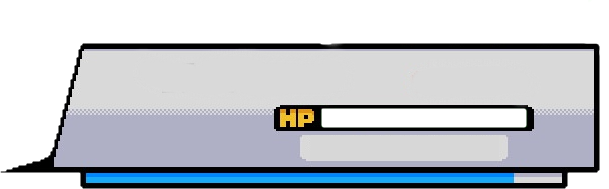
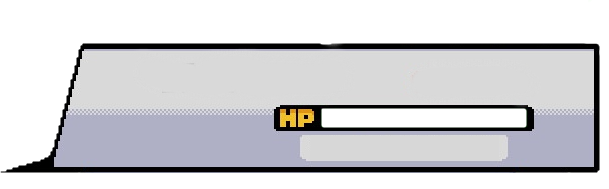
UI updates and added proper collision mask

Changed region(s): [[0.1248, 0.8995, 0.936, 1.0]]

diff --git a/pages/main/worlds/collision.js b/pages/main/worlds/collision.js
@@ -1,38 +1,38 @@
-import { gridHeight, gridWidth } from "../scripts/draw.js";
+import { fst, grs, nan, rck, urb, wtr, sea, mtn } from "../../../constants.js";
 
 const collisionMask = [
-    [-1, 1, 1, 1, -1, -1, -1, -1, -1, -1, -1, -1, -1, -1, -1, -1, -1, -1, -1, -1, -1, -1, -1, -1, -1, -1, -1, -1, -1, -1, -1, -1],
-    [-1, 1, 1, 1, -1, -1, -1, -1, -1, 0, 0, 0, 0, 0, 0, 0, 0, 0, -1, 0, 0, 0, -1, 0, 0, 0, 0, 0, 0, -1, 0, -1],
-    [-1, -1, 1, 1, -1, -1, -1, -1, -1, -1, 0, 0, 0, 0, 0, 0, 0, 0, 0, 0, 0, 0, 0, 0, 0, 0, 0, 0, 0, 0, 0, -1],
-    [-1, 1, 1, 1, -1, -1, -1, -1, -1, 0, 0, 0, 0, 0, 0, 0, 0, 0, 0, 0, 0, 0, 0, 0, 0, 0, 0, 0, 0, 0, 0, -1],
-    [-1, 1, 1, 1, -1, -1, -1, -1, -1, 0, 0, 0, 0, 0, 0, 0, 0, 0, 0, 0, 0, 0, 0, 0, 0, 0, 0, 0, 0, 0, 0, -1],
-    [-1, 1, 1, -1, -1, -1, -1, -1, -1, 0, 0, 0, -1, -1, 0, 0, -1, -1, -1, 0, 0, 0, 0, 0, 0, 0, 0, 0, 0, 0, 0, -1],
-    [-1, 1, 1, -1, -1, 0, -1, -1, 0, 0, 0,-1, -1, -1, 0, 0, -1, -1, -1, 0, 0, 0, 0, 0, 0, 0, 0, 0, 0, 0, 0, -1],
-    [-1, -1, 1, 1, -1, -1, -1, 0, 0, 0, 0, -1, -1, -1, 0, 0, 0, 0, 0, 0, 0, 0, -1, -1, 0, 0, 0, 0, -1, -1, 0, -1],
-    [-1, 1, 1, 1, -1, -1, -1, 0, 0, 0, 0, -1, 0, 0, 0, 0, 0, -1, 0, 0, 0, 0, -1, -1, 0, 0, 0, 0, 0, 0, 0, -1],
-    [-1, 1, 1, 1, -1, -1, 0, 0, 0, 0, 0, 0, -1, 0, 0, 0, 0, 0, -1, 0, -1, 0, -1, -1, 0, 0, 0, 0, -1, -1, 0, -1],
-    [-1, -1, 1, 1, 1, -1, -1, 0, 0, 0, 0, -1, 0, 0, 0, 0, 0, -1, -1, -1, 0, -1, 0, 0, -1, 0, 0, -1, -1, 0, 0, -1],
-    [-1, 1, 1, 1, 1, -1, -1, 0, 0, 0, 0, 0, -1, 0, 0, 0, -1, -1, 1, 1, 0, -1, -1, 0, 0, 0, 0, 0, 0, -1, -1, -1],
-    [-1, -1, 1, 0, 0, -1, -1, -1, 0, 0, 0, -1, 0, 0, 0, 0, -1, 1, 1, 1, -1, -1, -1, -1, 0, 0, 0, 0, 0, -1, -1, -1],
-    [-1, 1, 1, 1, 1, 1, -1, -1, -1, -1, 0, -1, 0, 0, 0, 0, -1, 1, 1, 1, -1, -1, -1, -1, -1, 0, 0, 0, 0, -1, -1, -1],
-    [-1, 1, 1, 1, 1, 1, -1, 0, 0, 0, 0, 0, 0, 0, 0, 0, 0, 0, 1, 1, -1, -1, -1, -1, 0, 0, 0, -1, 0, -1, -1, -1],
-    [-1, 1, 1, 1, 1, 1, -1, 0, 0, 0, -1, 0, 0, 0, 0, 0, 0, 0, 1, 1, -1, -1, 0, 0, 0, 0, 0, 0, -1, 0, 0, -1],
-    [-1, 1, 1, 1, 1, 1, -1, 0, 0, 0, -1, 0, 0, 0, 0, -1, 0, 0, -1, 0, -1, 0, 0, 0, 0, 0, 0, -1, 0, 0, 0, -1],
-    [-1, 1, -1, 1, 1, 1, 1, -1, 0, 0, 0, 0, 0, 0, -1, 0, 0, 0, 0, 0, 0, 0, 0, 0, 0, 0, -1, 0, 0, 0, -1, -1],
-    [-1, 1, -1, 1, 1, 1, 1, -1, 0, 0, 0, 0, 0, 0, 0, 0, 0, 0, 0, 0, 0, 0, 0, 0, 0, 0, 0, -1, -1, -1, 0, -1],
-    [-1, -1, 1, 1, 1, -1, 1, -1, 0, 0, 0, 0, 0, 0, 0, 0, 0, 0, 0, 0, 0, 0, 0, 0, 0, 0, 0, 0, 0, 0, 0, -1],
-    [-1, -1, 1, 1, 1, 1, 1, 1, -1, 0, 0, 0, 0, -1, 0, 0, 0, 0, 0, 0, 0, 0, 0, 0, 0, 0, 0, -1, 0, 0, -1, -1],
-    [-1, 1, 1, 1, 1, 1, 1, 1, 0, 0, 0, 1, 0, 0, 0, 0, 0, 0, 0, 0, 0, 0, 0, 0, 0, 0, -1, 0, 0, -1, -1, -1],
-    [-1, 1, 1, 1, 1, 1, 1, 1, 0, 0, 0, 1, 0, 0, 0, 0, 0, 0, 0, 0, 0, 0, 0, 0, 0, 0, -1, 0, 0, 0, -1, -1],
-    [-1, 1, 1, 1, 1, 1, 1, 1, 0, 0, 0, 1, 0, 0, 0, 0, 0, 0, 0, 0, 0, 0, 0, -1, 0, 0, 0, -1, -1, -1, 0, -1],
-    [-1, -1, 1, 1, 1, 1, 1, 1, 0, -1, -1, 1, 0, 0, 0, 0, 0, 0, 0, 0, 0, 0, 0, -1, 0, 0, 0, 0, 0, -1, 0, -1],
-    [-1, -1, 1, 1, 1, 1, 1, 1, 0, -1, -1, 1, 1, 0, 0, 0, 0, 0, 0, 0, 0, 0, 0, -1, -1, -1, -1, -1, -1, -1, -1, -1],
-    [-1, -1, 1, 1, 1, 1, 1, 1, 0, -1, -1, -1, 1, 1, 1, 1, 1, 1, 1, 1, 1, 1, 1, -1, -1, 0, 0, -1, -1, -1, 0, -1],
-    [-1, 0, -1, 1, 1, -1, -1, -1, -1, -1, -1, -1, -1, -1, 1, 1, 1, 1, 1, 1, 1, 1, 1, -1, -1, 0, -1, 0, -1, -1, -1, -1],
-    [-1, 0, -1, 1, 1, -1, -1, 0, -1, -1, -1, -1, -1, -1, -1, 1, 1, 1, 1, 1, 1, 1, 1, 1, 1, 1, -1, 0, -1, -1, 0, -1],
-    [-1, 0, -1, 1, 1, -1, -1, -1, -1, -1, -1, -1, -1, -1, 1, 1, 1, 1, 1, 1, 1, 1, 1, -1, 1, 1, -1, 1, 0, 0, 0, -1],
-    [-1, 1, -1, 1, 1, 1, 1, 1, 1, 1, 1, 1, 1, 1, 1, 1, 1, 1, 1, 1, 1, 1, 1, 1, 1, 1, 1, 1, 1, 1, 1, -1],
-    [-1, -1, -1, -1, -1, -1, -1, -1, -1, -1, -1, -1, -1, -1, -1, -1, -1, -1, -1, -1, -1, -1, -1, -1, -1, -1, -1, -1, -1, -1, -1, -1]
+    [nan, nan, nan, nan, nan, nan, nan, nan, nan, nan, nan, nan, nan, nan, nan, nan, nan, nan, nan, nan, nan, nan, nan, nan, nan, nan, nan, nan, nan, nan, nan, nan],
+    [nan, wtr, wtr, wtr, nan, nan, nan, nan, nan, nan, fst, fst, fst, fst, fst, fst, fst, fst, fst, fst, fst, fst, fst, fst, fst, fst, fst, fst, fst, fst, fst, nan],
+    [nan, nan, wtr, wtr, nan, nan, nan, nan, nan, nan, grs, grs, grs, grs, grs, grs, grs, grs, grs, grs, grs, grs, grs, grs, grs, grs, grs, grs, grs, grs, grs, nan],
+    [nan, wtr, wtr, wtr, nan, nan, nan, nan, nan, nan, grs, grs, grs, grs, grs, grs, grs, grs, grs, grs, grs, grs, grs, grs, grs, grs, grs, grs, grs, grs, grs, nan],
+    [nan, wtr, wtr, wtr, nan, nan, nan, nan, nan, nan, grs, grs, nan, nan, nan, nan, grs, grs, grs, grs, grs, grs, grs, grs, grs, grs, grs, grs, grs, grs, grs, nan],
+    [nan, wtr, wtr, wtr, nan, nan, fst, nan, nan, grs, grs, grs, nan, nan, nan, nan, fst, fst, fst, fst, fst, fst, fst, fst, fst, fst, fst, fst, fst, fst, fst, nan],
+    [nan, wtr, wtr, wtr, nan, nan, fst, fst, grs, grs, grs, grs, nan, nan, nan, nan, nan, nan, nan, nan, nan, nan, nan, nan, nan, nan, nan, fst, fst, fst, fst, nan],
+    [nan, nan, wtr, wtr, nan, nan, fst, fst, grs, grs, grs, grs, nan, nan, nan, nan, nan, nan, nan, nan, nan, nan, nan, nan, nan, nan, nan, fst, fst, fst, fst, nan],
+    [nan, wtr, wtr, wtr, nan, nan, fst, fst, grs, grs, grs, grs, fst, nan, nan, fst, nan, nan, nan, nan, nan, nan, nan, nan, nan, nan, nan, fst, fst, fst, fst, nan],
+    [nan, wtr, wtr, wtr, nan, nan, fst, fst, grs, grs, grs, grs, fst, fst, fst, nan, nan, nan, nan, nan, nan, nan, nan, nan, nan, nan, nan, fst, fst, fst, fst, nan],
+    [nan, nan, wtr, wtr, nan, nan, fst, fst, grs, grs, grs, grs, fst, fst, fst, nan, nan, nan, nan, nan, nan, nan, nan, nan, nan, nan, nan, fst, fst, fst, fst, nan],
+    [nan, wtr, wtr, wtr, nan, nan, nan, fst, fst, fst, fst, fst, fst, nan, nan, nan, nan, nan, nan, nan, nan, nan, nan, nan, nan, nan, nan, fst, nan, nan, nan, nan],
+    [nan, wtr, wtr, wtr, nan, nan, nan, fst, fst, fst, fst, fst, fst, nan, nan, nan, wtr, wtr, nan, nan, nan, nan, nan, nan, nan, nan, nan, fst, nan, nan, nan, nan],
+    [nan, wtr, wtr, wtr, wtr, nan, nan, fst, fst, fst, fst, fst, fst, nan, nan, wtr, wtr, wtr, nan, nan, nan, nan, wtr, wtr, nan, nan, nan, fst, nan, nan, nan, nan],
+    [nan, wtr, wtr, wtr, wtr, nan, nan, nan, fst, fst, fst, fst, nan, nan, wtr, wtr, wtr, wtr, nan, nan, nan, nan, wtr, wtr, nan, nan, fst, fst, nan, nan, nan, nan],
+    [nan, nan, wtr, wtr, wtr, nan, nan, nan, fst, fst, fst, nan, nan, nan, wtr, wtr, wtr, wtr, wtr, wtr, wtr, wtr, wtr, nan, nan, nan, fst, fst, fst, nan, nan, nan],
+    [nan, nan, nan, wtr, wtr, wtr, nan, nan, urb, urb, urb, nan, nan, nan, wtr, wtr, wtr, wtr, wtr, wtr, wtr, wtr, wtr, nan, nan, fst, fst, fst, fst, nan, nan, nan],
+    [nan, nan, nan, wtr, wtr, wtr, nan, nan, urb, urb, urb, nan, nan, wtr, wtr, wtr, wtr, wtr, wtr, wtr, wtr, wtr, wtr, nan, nan, fst, fst, fst, fst, nan, nan, nan],
+    [nan, nan, wtr, wtr, wtr, wtr, wtr, wtr, urb, urb, urb, wtr, wtr, wtr, wtr, wtr, wtr, wtr, wtr, wtr, wtr, wtr, wtr, nan, nan, fst, fst, fst, fst, fst, fst, nan],
+    [nan, nan, wtr, wtr, wtr, wtr, wtr, wtr, urb, urb, urb, wtr, wtr, wtr, wtr, wtr, wtr, wtr, wtr, wtr, wtr, rck, rck, nan, nan, fst, fst, fst, fst, fst, fst, nan],
+    [nan, mtn, mtn, mtn, nan, nan, nan, wtr, urb, urb, urb, wtr, wtr, wtr, wtr, wtr, wtr, wtr, wtr, wtr, rck, rck, rck, nan, nan, fst, fst, fst, fst, fst, fst, nan],
+    [nan, mtn, mtn, mtn, mtn, mtn, nan, wtr, urb, urb, urb, wtr, wtr, wtr, wtr, wtr, wtr, wtr, wtr, wtr, rck, rck, rck, nan, nan, fst, fst, nan, nan, nan, nan, nan],
+    [nan, mtn, mtn, mtn, nan, nan, nan, wtr, urb, urb, urb, wtr, wtr, sea, sea, sea, sea, sea, sea, wtr, rck, rck, rck, nan, nan, fst, fst, nan, nan, nan, nan, nan],
+    [nan, nan, mtn, mtn, nan, nan, nan, wtr, urb, urb, urb, wtr, wtr, sea, sea, sea, sea, sea, sea, wtr, rck, rck, rck, nan, nan, fst, fst, nan, nan, nan, nan, nan],
+    [nan, nan, wtr, wtr, wtr, wtr, nan, nan, nan, nan, nan, nan, nan, sea, sea, sea, sea, sea, sea, wtr, rck, rck, rck, nan, urb, fst, fst, nan, nan, nan, nan, nan],
+    [nan, nan, wtr, wtr, wtr, wtr, nan, nan, nan, nan, nan, nan, nan, nan, nan, sea, sea, sea, sea, wtr, rck, rck, rck, urb, urb, fst, fst, nan, nan, nan, nan, nan],
+    [nan, nan, nan, wtr, wtr, wtr, nan, nan, nan, nan, nan, nan, nan, nan, sea, sea, sea, sea, sea, wtr, wtr, rck, rck, urb, nan, fst, fst, fst, nan, nan, fst, nan],
+    [nan, nan, nan, wtr, wtr, wtr, nan, nan, nan, nan, nan, nan, nan, nan, sea, sea, sea, sea, sea, sea, wtr, wtr, wtr, nan, nan, fst, fst, fst, nan, nan, fst, nan],
+    [nan, nan, nan, wtr, wtr, wtr, nan, nan, nan, nan, nan, nan, nan, nan, sea, sea, sea, sea, sea, sea, wtr, wtr, wtr, nan, nan, fst, fst, fst, nan, nan, fst, nan],
+    [nan, nan, nan, wtr, wtr, wtr, nan, nan, nan, nan, nan, nan, nan, nan, sea, sea, sea, sea, sea, sea, wtr, wtr, wtr, nan, nan, fst, fst, fst, nan, nan, fst, nan],
+    [nan, nan, nan, wtr, wtr, wtr, nan, nan, nan, nan, nan, nan, nan, nan, sea, sea, sea, sea, sea, sea, wtr, wtr, wtr, nan, nan, fst, fst, fst, nan, nan, fst, nan],
+    [nan, nan, nan, nan, nan, nan, nan, nan, nan, nan, nan, nan, nan, nan, nan, nan, nan, nan, nan, nan, nan, nan, nan, nan, nan, nan, nan, nan, nan, nan, nan, nan],
 ]
 
 export function maskIndex(x, y) {

diff --git a/pages/main/world_loop.js b/pages/main/world_loop.js
@@ -1,6 +1,6 @@
 import { playMainMusic, playMoveSound } from "../../music.js";
 import { getRandomInt, loadPage, loadPokemon, onWindowResize } from "../../utilities.js";
-import { battleBackground, battlePage, battlePokemon, battle, starterMusic, myPokemonKey, starterPage, worldIndexKey } from "../../constants.js";
+import { battlePage, battlePokemon, battle, starterMusic, myPokemonKey, starterPage, worldIndexKey, terrainIndexes, worldRequests } from "../../constants.js";
 
 import { canMove, maskIndex } from "./worlds/collision.js";
 import { clearCatch, setUpPokemonSelect, setUpCatch, generateRandomTrainer } from "./scripts/controls.js";
@@ -15,28 +15,31 @@ const loading = document.getElementById("loading")
 
 body.style.display = "none"
 
-const grassLandPokemon = []
-const watersEdgePokemon = []
-
-async function loadPokemonFromHabitat(url, collection) {
+const terrainBasedPokemon = []
+async function loadPokemonFromHabitat(url) {
     const response = await fetch(url)
     if (!response.ok)
         return
+
+    const collection = []
 
     const json = await response.json()
     const allPokemon = json["pokemon_species"]
 
     for(let i = 0; i < allPokemon.length; i++)
         collection.push(allPokemon[i].name)
+
+    return collection
 }
 
 async function generateRandomPokemon(x, y) {
     const index = maskIndex(x, y)
+    const terrainPokemon = terrainBasedPokemon[maskIndex(x, y)]
 
     if (index > 0)
-        await setUpCatch(await loadPokemon(grassLandPokemon[getRandomInt(0, grassLandPokemon.length)]))
+        await setUpCatch(await loadPokemon(terrainPokemon[getRandomInt(0, terrainPokemon.length)]))
     else
-        await setUpCatch(await loadPokemon(watersEdgePokemon[getRandomInt(0, watersEdgePokemon.length)]))
+        await setUpCatch(await loadPokemon(terrainPokemon[getRandomInt(0, terrainPokemon.length)]))
 }
 
 async function generateRandomOpponent(x, y) {
@@ -78,8 +81,8 @@ async function setup() {
 
     await setUpPokemonSelect()
 
-    await loadPokemonFromHabitat("https://pokeapi.co/api/v2/pokemon-habitat/grassland/", grassLandPokemon)
-    await loadPokemonFromHabitat("https://pokeapi.co/api/v2/pokemon-habitat/waters-edge/", watersEdgePokemon)
+    for(let i = 0; i < terrainIndexes.length; i++)
+        terrainBasedPokemon.push(await loadPokemonFromHabitat(worldRequests[i]))
 
     body.style.display = "block"
     loading.style.display = "none"
@@ -127,6 +130,7 @@ async function gameLoop(x, y, spriteIndex, worldIndex) {
         const action = actions.shift()
 
         standby = true
+        let move = false
         switch (action)
         {
             case 0:
@@ -135,6 +139,8 @@ async function gameLoop(x, y, spriteIndex, worldIndex) {
                     x--
                     spriteIndex = 1
                     worldIndex = calculateWorldIndex(x, y)
+
+                    move = true
                 }
                 break
             case 1:
@@ -143,6 +149,8 @@ async function gameLoop(x, y, spriteIndex, worldIndex) {
                     x++
                     spriteIndex = 2
                     worldIndex = calculateWorldIndex(x, y)
+
+                    move = true
                 }
                 break
             case 2:
@@ -151,6 +159,8 @@ async function gameLoop(x, y, spriteIndex, worldIndex) {
                     y--
                     spriteIndex = 3
                     worldIndex = calculateWorldIndex(x, y)
+
+                    move = true
                 }
                 break
             case 3:
@@ -159,11 +169,12 @@ async function gameLoop(x, y, spriteIndex, worldIndex) {
                     y++
                     spriteIndex = 0
                     worldIndex = calculateWorldIndex(x, y)
+
+                    move = true
                 }
                 break
             default:
                 localStorage.setItem(battle, JSON.stringify({
-                    [battleBackground] : maskIndex(x, y),
                     [battlePokemon]: action
                 }))
 
@@ -176,10 +187,13 @@ async function gameLoop(x, y, spriteIndex, worldIndex) {
                 break
         }
 
-        await playMoveSound()
-        await draw(spriteIndex, x, y)
+        if(move)
+        {
+            await playMoveSound()
+            await draw(spriteIndex, x, y)
 
-        await generateRandomOpponent(x, y)
+            await generateRandomOpponent(x, y)
+        }
 
         standby = false
     }

diff --git a/pages/battle/battle.js b/pages/battle/battle.js
@@ -1,9 +1,9 @@
 import { playMainMusic } from "../../music.js";
 import { getRandomInt, loadPage, loadPokemonList, onWindowResize } from "../../utilities.js";
-import { battlePokemon, battle, myPokemonKey, selectedPokemon, allPokemon, victoryMusic, mainPage, battleMusic, battleBackground, starterPage, attackTypeTable } from "../../constants.js";
+import { battlePokemon, battle, myPokemonKey, selectedPokemon, allPokemon, victoryMusic, mainPage, battleMusic, starterPage, attackTypeTable } from "../../constants.js";
 
 import { manageSelection, pushLog, initAttacks, initSelection, toggleAttacks, disableSelection, pokeBallsInit, managePokeBalls } from "./scripts/controls.js";
-import { clearRect,  drawPlayer1Pokemon, drawPlayer2Pokemon, drawPokemonHealth, drawPokemonUI, loadPokemonImages, loadPokemonUI, setBackground, waitLoadFonts } from "./scripts/draw.js";
+import { clearRect,  drawPlayer1Pokemon, drawPlayer2Pokemon, drawPokemonHealth, drawPokemonUI, loadPokemonImages, loadPokemonUI, waitLoadFonts } from "./scripts/draw.js";
 
 const body = document.getElementById("body")
 const loading = document.getElementById("loading")
@@ -33,15 +33,13 @@ async function setup() {
     }
 
     backgroundMusic = await playMainMusic(battleMusic)
-    await backgroundMusic.play()
+    //await backgroundMusic.play()
 
     const battleSettings = JSON.parse(battleSettingsData)
     const parsedPokemonData = JSON.parse(localPokemonData)
 
     const player1Pokemon = await loadPokemonList(parsedPokemonData[selectedPokemon])
     const player2Pokemon = await loadPokemonList(battleSettings[battlePokemon])
-
-    await setBackground(battleSettings[battleBackground])
 
     await waitLoadFonts()
 

diff --git a/pages/battle/scripts/draw.js b/pages/battle/scripts/draw.js
@@ -1,13 +1,6 @@
 import { loadImage } from "../../../utilities.js";
 import { showdownBack , showdownFront, gif } from "../../../constants.js";
 
-const backgrounds = ["backgrounds/battle.jpg", "backgrounds/water-battle.jpg"];
-
-const background = document.getElementById("background");
-export async function setBackground(index) {
-    await loadImage(background, backgrounds[index])
-}
-
 const canvasWidth = 1280, canvasHeight = 720
 
 const canvas = document.getElementById('world')
@@ -18,8 +11,8 @@ const ctx = canvas.getContext('2d')
 
 const player1Coords = [50, 575], player2Coords = [1000, 575]
 const player1UICoords = [450, 580] , player2UICoords = [700, 275]
-const player1TextCoords = [525, 640], player2TextCoords = [780, 335]
-const player1HealthCoords = [665, 650], player2HealthCoords = [910, 340]
+const player1TextCoords = [525, 640], player2TextCoords = [720, 310]
+const player1HealthCoords = [665, 650], player2HealthCoords = [880, 315]
 
 const player1Image = document.getElementById('player1')
 const player2Image = document.getElementById('player2')
@@ -70,7 +63,7 @@ export async function loadPokemonUI() {
 }
 
 async function drawUI(pokemon, healthUI, UICoordinates, textCoordinates) {
-    ctx.drawImage(player1Bar, 0, 0, healthUI.width, healthUI.height, UICoordinates[0], UICoordinates[1], healthUI.width * 2 / 3, healthUI.height * 2 / 3)
+    ctx.drawImage(healthUI, 0, 0, healthUI.width, healthUI.height, UICoordinates[0], UICoordinates[1], healthUI.width * 2 / 3, healthUI.height * 2 / 3)
 
     ctx.fillStyle = "#000000"
     ctx.fillText(pokemon.name, textCoordinates[0], textCoordinates[1])

diff --git a/constants.js b/constants.js
@@ -21,7 +21,7 @@ export const starters = [
 
 export const showdownBack = "back", showdownFront = "front", gif = "gif", avatar = "avatar"
 
-export const battle = "battle", battleBackground = "battleBackground", battlePokemon = "battlePokemon"
+export const battle = "battle", battlePokemon = "battlePokemon"
 
 export const starterMusic = "starter", battleMusic = "battleMusic", victoryMusic = "victoryMusic", click = "click", moveSound = "move"
 
@@ -134,3 +134,17 @@ export const attackTypeTable = {
 }
 
 export const worldIndexKey = "worldIndex"
+
+export const sea = 0, wtr = 1, rck = 2, mtn = 3, grs = 4, fst = 5, urb = 6, nan = -1
+
+export const terrainIndexes = [sea, wtr, rck, mtn, grs, fst, urb]
+
+export const worldRequests = [
+    "https://pokeapi.co/api/v2/pokemon-habitat/sea/",
+    "https://pokeapi.co/api/v2/pokemon-habitat/waters-edge/",
+    "https://pokeapi.co/api/v2/pokemon-habitat/rough-terrain/",
+    "https://pokeapi.co/api/v2/pokemon-habitat/mountain/",
+    "https://pokeapi.co/api/v2/pokemon-habitat/grassland/",
+    "https://pokeapi.co/api/v2/pokemon-habitat/forest/",
+    "https://pokeapi.co/api/v2/pokemon-habitat/urban/",
+]

diff --git a/pages/battle/scripts/controls.js b/pages/battle/scripts/controls.js
@@ -113,11 +113,16 @@ export async function initSelection(pokemonList) {
     }
 }
 
+const knockOut = "knock"
+
 export async function manageSelection(pokemonList, currentIndex) {
     for(let i = 0; i < pokemonList.length; i++) {
         const current = selection_options[i]
 
-        if(pokemonList[i].health <= 0  || i === currentIndex)
+        if(pokemonList[i].health <= 0) {
+            current.dataset.status = knockOut
+        }
+        else if(i === currentIndex)
             current.dataset.status = inactive
         else
             current.dataset.status = active
@@ -133,7 +138,6 @@ const back_to_home = document.getElementById('back_to_home')
 back_to_home.onclick = async () => {
     await loadPage(mainPage)
 }
-
 
 const pokeBalls = []
 const player2PokeBalls = document.getElementById('player_poke_balls')

diff --git a/pages/battle/styles.css b/pages/battle/styles.css
@@ -207,7 +207,7 @@ body {
 }
 
 .pokemon_card {
-    height: 100%;
+    min-height: 8rem;
 
     display: flex;
     align-items: center;
@@ -226,6 +226,10 @@ body {
     cursor: pointer
 }
 
+.pokemon_card[data-status="knock"] {
+    color: darkred;
+}
+
 .pokemon_card[data-status="inactive"] {
     color: gray;
 }
@@ -233,8 +237,8 @@ body {
 #player_poke_balls {
     position: absolute;
 
-    top: 16.5rem;
-    right: 15rem;
+    top: 14.5rem;
+    right: 17rem;
 
     height: 3rem;
 }

diff --git a/pages/battle/battle.html b/pages/battle/battle.html
@@ -81,7 +81,7 @@
             <ul id="log">
             </ul>
           </div>
-          <img id="what_will_do" src="backgrounds/what-will-do.png" alt="what-will-do">
+          <img id="what_will_do" src="ui/what-will-do.png" alt="what-will-do">
         </div>
       </div>
       <div style="display:none;">
